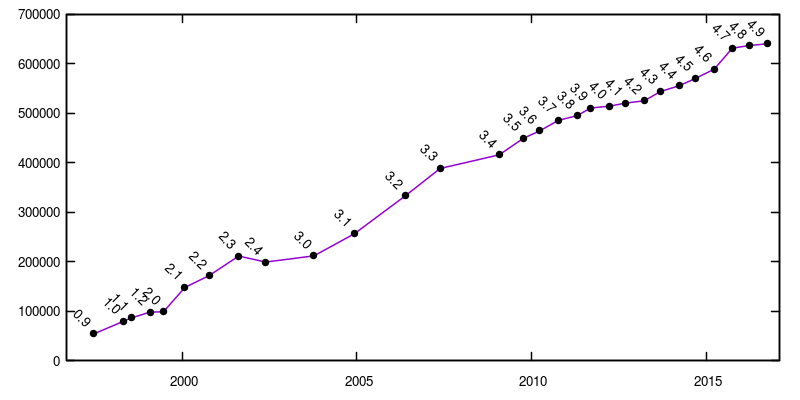
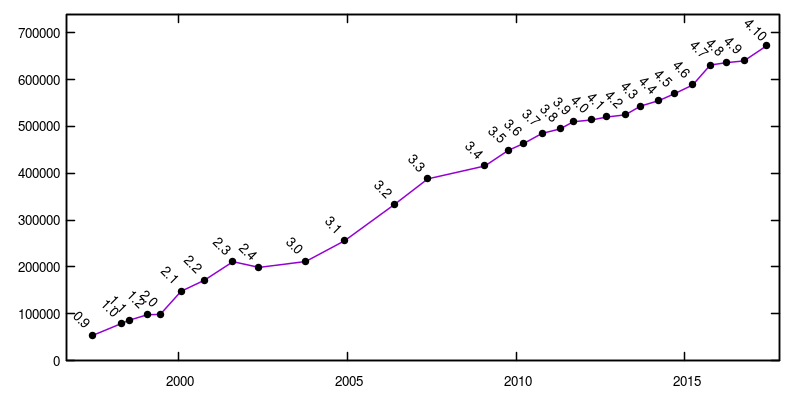
Publish CGAL-4.10

diff --git a/_posts/2017-05-27-cgal410.md b/_posts/2017-05-27-cgal410.md
@@ -1,0 +1,271 @@
+---
+layout: post
+title: "CGAL 4.10"
+description: "CGAL 4.10 released"
+category: 
+tags: ["release"]
+---
+{% include JB/setup %}
+
+<a href="http://doc.cgal.org/4.10/Manual/index.html">Link to the
+CGAL-4.10 documentation</a>
+
+<a href="/download/4.10">Download link for CGAL-4.10</a>
+
+  <h3>Installation</h3>
+  <ul>
+    <li>The minimum required version of CMake is now 3.1. All CMake
+      versions up to 3.7 are supported.</li>
+    <li>The compilation of some demo may require a C++11 compiler. The
+      CGAL library itself still support C++03 compilers.</li>
+    <li>The shell script <code>cgal_create_cmake_script</code> now enables
+      C++14 by default.</li>
+    <li>A new mechanism to check which packages of CGAL are used have been
+        added.  It is particularly interesting for commercial users to
+        ensure they have a valid commercial license for the packages they
+        used. This can also be used to make sure only LGPL header files are
+        used.</li>
+    <li>Because of a bug in the g++ compiler about the C++11
+    keyword <code>thread_local</code>, the CGAL_Core library now always
+    requires <code>Boost.Thread</code> if the g++ compiler is used.</li>
+  </ul>
+
+  <h3>Generalized Maps (new package)</h3>
+  <ul>
+    <li>
+      This package implements Generalized Maps in d dimensions. A
+      generalized map is a data structure enabling to represent an
+      orientable or non orientable subdivided object by describing all the
+      cells of the subdivision (for example in 3D vertices, edges, faces,
+      volumes) and all the incidence and adjacency relationships between
+      these cells. This data structure is the generalization of the
+      combinatorial maps in order to be able to represent non orientable
+      objects.</li>
+    </li>
+  </ul>
+
+  <h3>3D Point Set (new package)</h3>
+  <ul>
+    <li>This package provides a flexible data
+    structure <code>CGAL::Point_set_3</code> that allows the user to
+    easily handle point sets with an arbitrary number of attributes
+    (such as normal vectors, colors, labeling, etc.).</li>
+  </ul>
+
+  <h3>Combinatorial Maps and Linear cell complex</h3>
+  <ul>
+    <li>
+      <b>Breaking change</b>: the requirements of the item class used to
+      customize a combinatorial map and a linear cell complex
+      changed. Instead of defining the type of darts used, you have to
+      define the information you want to add in each dart. You can define
+      the <code>CGAL_CMAP_DART_DEPRECATED</code> macro to keep the old
+      behavior.
+    </li>
+  </ul>
+
+  <h3>Triangulated Surface Mesh Shortest Paths</h3>
+  <ul>
+    <li>
+      <b>Breaking change</b>: Rename all functions, types, and enums
+      using <i>barycentric coordinate</i> to <i>barycentric
+        coordinates</i>.
+    </li>
+  </ul>
+
+  <h3>CGAL and the Boost Graph Library (BGL)</h3>
+  <ul>
+    <li>
+      <b>Breaking change</b>: Addition of a free
+      function <code>reserve()</code> in the
+      concept <code>MutableFaceGraph</code>.  Models provided by CGAL have
+      been updated.
+    </li>
+  </ul>
+
+  <h3>2D and 3D Linear Geometry Kernel</h3>
+  <ul>
+    <li><b>Breaking change</b>: The function <code>compare_slopes()</code>
+        was renamed <code>compare_slope</code>.  </li>
+    <li>Added a 2D and 3D weighted point class and predicates and constructions.
+    </li>
+    <li>
+      Add functions <code>l_infinity_distance()</code> for 2D and 3D.
+    </li>
+    <li>Add a new functor in CGAL Kernel concept to compare the slope of
+        two 3D segments.  All models of the Kernel concept now provide the
+        functor <code>Compare_slope_3</code>, and the free function
+        <code>compare_slope()</code> is available.  </li>
+    <li>Add an operator in CGAL Kernel concept <code>Angle_3</code> to
+        qualify the angle between the normal of the triangle given by three
+        points, and a vector.</li>
+  </ul>
+
+  <h3>3D Convex Hull</h3>
+  <ul>
+    <li>The convex hull function can also produce
+      a <code>Surface_mesh</code>, and generally speaking any model of the
+      concept <code>MutableFaceGraph</code></li>
+    <li>The function <code>convex_hull_3_to_polyhedron_3()</code> is
+      deprecated and <code>convex_hull_3_to_face_graph.h</code> should be
+      used instead.</li>
+    <li>The class <code>Convex_hull_traits_3</code> now documents a nested
+      type <code>Polygon_mesh</code> instead
+      of <code>Polyhedron_3</code>. The other nested type is kept for
+      backward compatibility.</li>
+    <li>Remove the function <code>CGAL::convex_hull_incremental_3()</code>
+      deprecated since CGAL 4.6.</li>
+  </ul>
+
+  <h3>3D Boolean Operations on Nef Polyhedra</h3>
+  <ul>
+    <li>Add a new constructor from a face graph model</li>
+  </ul>
+
+  <h3>Linear cell complex</h3>
+  <ul>
+    <li>
+      Deprecate class <code>Linear_cell_complex</code> which is now
+      renamed <code>Linear_cell_complex_for_combinatorial_map_dart</code>.
+    </li>
+  </ul>
+
+  <h3> 2D Triangulation data structure </h3>
+  <ul>
+    <li>
+      Add function <code>insert_in_hole</code>.
+    </li>
+  </ul>
+
+ <h3>2D Triangulations</h3>
+  <ul>
+    <li><b>Breaking change</b>: Removed the arbitrary dimensional weighted
+      point class.  Users must use a version prior to 4.9 if they need this
+      class.</li>
+    <li><b>Breaking change</b>:The number type of weighted points in
+      regular triangulations is no longer a template parameter but the
+      field type of the geometric traits class.  Users who need this
+      feature must use a version prior to 4.9</li>
+    <li>The class <code>Regular_triangulation_filtered_traits_2</code>
+      deprecated since CGAL 3.6 has been removed.</li>
+    <li>Deprecate the
+      class <code>Regular_triangulation_euclidean_traits_2</code>, as the
+      weighted point and the function objects for weighted points are part
+      of the concept <code>Kernel</code>/</li>
+    <li>The class <code>Regular_triangulation_2</code> can take a kernel as
+      template argument, that is one no longer has to
+      use <code>Regular_triangulation_euclidea_traits_2</code>, although
+      this still works.</li>
+  </ul>
+
+ <h3>3D Triangulations</h3>
+  <ul>
+    <li><b>Breaking change</b>: The number type of weighted points in
+      regular triangulations is no longer a template parameter but the
+      field type of the geometric traits class.  Users who need this
+      feature must use a version prior to 4.9.</li>
+    <li>The class <code>Regular_triangulation_filtered_traits_3</code>
+      deprecated since CGAL 3.6 has been removed.</li>
+    <li>Deprecate the
+      class <code>Regular_triangulation_euclidean_traits_3</code>, as the
+      weighted point and the function objects for weighted points are part
+      of the concept <code>Kernel</code>/</li>
+    <li>The class <code>Regular_triangulation_3</code> can take a kernel as
+      template argument, that is one no longer has to
+      use <code>Regular_triangulation_euclidean_traits_3</code>, although
+      this still works.</li>
+    <li>
+      Add function <code>link_to_face_graph()</code> to copy the set of
+      faces incident to a vertex into a model of <code>FaceGraph</code>.
+    </li>
+  </ul>
+
+  <h3> 3D Mesh Generation </h3>
+  <ul>
+    <li>
+      The constructor <code>CGAL::Polyhedral_mesh_domain_with_features_3(std::string)</code> is deprecated.
+    </li>
+  </ul>
+
+  <h3>Polygon Mesh Processing</h3>
+  <ul>
+    <li>Add fast and robust corefinement and Boolean operation functions
+      for triangulated surface meshes:
+      <ul>
+        <li> <code>CGAL::Polygon_mesh_processing::corefine_and_compute_union()</code> </li>
+        <li> <code>CGAL::Polygon_mesh_processing::corefine_and_compute_difference()</code> </li>
+        <li> <code>CGAL::Polygon_mesh_processing::corefine_and_compute_intersection()</code> </li>
+        <li> <code>CGAL::Polygon_mesh_processing::corefine()</code> </li>
+        <li> <code>CGAL::Polygon_mesh_processing::does_bound_a_volume()</code> </li>
+        <li> <code>CGAL::Polygon_mesh_processing::surface_intersection()</code> </li>
+      </ul>
+    </li>
+    <li>
+     Add functions to compute approximated Hausdorff distances between two
+     meshes, a mesh and a point set, or a point set and a mesh:
+     <code>sample_triangle_mesh()</code>,
+     <code>approximated_Hausdorff_distance()</code>,
+     <code>approximated_symmetric_Hausdorff_distance()</code>,
+     <code>max_distance_to_triangle_mesh()</code>,
+     <code>max_distance_to_point_set()</code>.
+    </li>
+    <li>
+    The function <code>CGAL::Polygon_mesh_processing::bbox_3()</code> has
+    been renamed <code>CGAL::Polygon_mesh_processing::bbox()</code>.
+    </li>
+  </ul>
+
+  <h3>Point Set Processing</h3>
+  <ul>
+    <li>Function <code>CGAL::remove_outliers()</code> has an
+    additional parameter based on a distance threshold to make it
+    easier and more intuitive to use.</li>
+    <li>New functions for automatic scale estimations: either a global
+    scale or multiple local scales can be estimated for both 2D and 3D
+    point sets based on the assumption that they sample a curve in 2D
+      or a surface in 3D.</li>
+  </ul>
+
+  <h3>CGAL and the Boost Graph Library (BGL)</h3>
+  <ul>
+    <li>
+      Add
+      function <code>CGAL::convert_nef_polyhedron_to_polygon_mesh()</code> to
+      convert a <code>Nef_polyhedron_3</code> to any model of
+      the <code>MutableFaceGraph</code> concept.
+    </li>
+    <li>
+      Add class <code>CGAL::Graph_with_descriptor_with_graph</code> that
+      wraps an existing graph and provides a reference to the said graph to
+      all of its descriptors.
+    </li>
+  </ul>
+  
+  <h3>Cone Based Spanners</h3>
+  <ul>
+    <li>Add a parameter to compute half Tao graph and half Theta graph.</li>
+    <li>Add an ipelet for this package.</li>
+  </ul>
+
+  <h3>Geometric Object Generators</h3>
+  <ul>
+    <li>
+      Add point random generators
+      <ul>
+        <li>in a 3D triangle mesh model of the
+          concept <code>FaceListGraph</code>
+          (<code>CGAL::Random_points_in_triangle_mesh_3</code>),</li>
+        <li>on the boundary of a tetrahedral mesh
+          (<code>CGAL::Random_points_in_tetrahedral_mesh_boundary_3</code>),</li>
+        <li>in a tetrahedral mesh
+          (<code>CGAL::Random_points_in_tetrahedral_mesh_3</code>),</li>
+        <li>in a 2D triangle mesh
+          (<code>CGAL::Random_points_in_triangle_mesh_2</code>),</li>
+        <li>in a range of 2D or 3D triangles
+          (<code>CGAL::Random_points_in_triangles_3</code>
+          and <code>CGAL::Random_points_in_triangles_2</code>).</li>
+        <li>on a 3D segment
+          (<code>CGAL::Random_points_on_segment_3</code>).</li>
+      </ul>
+    </li>
+  </ul>
